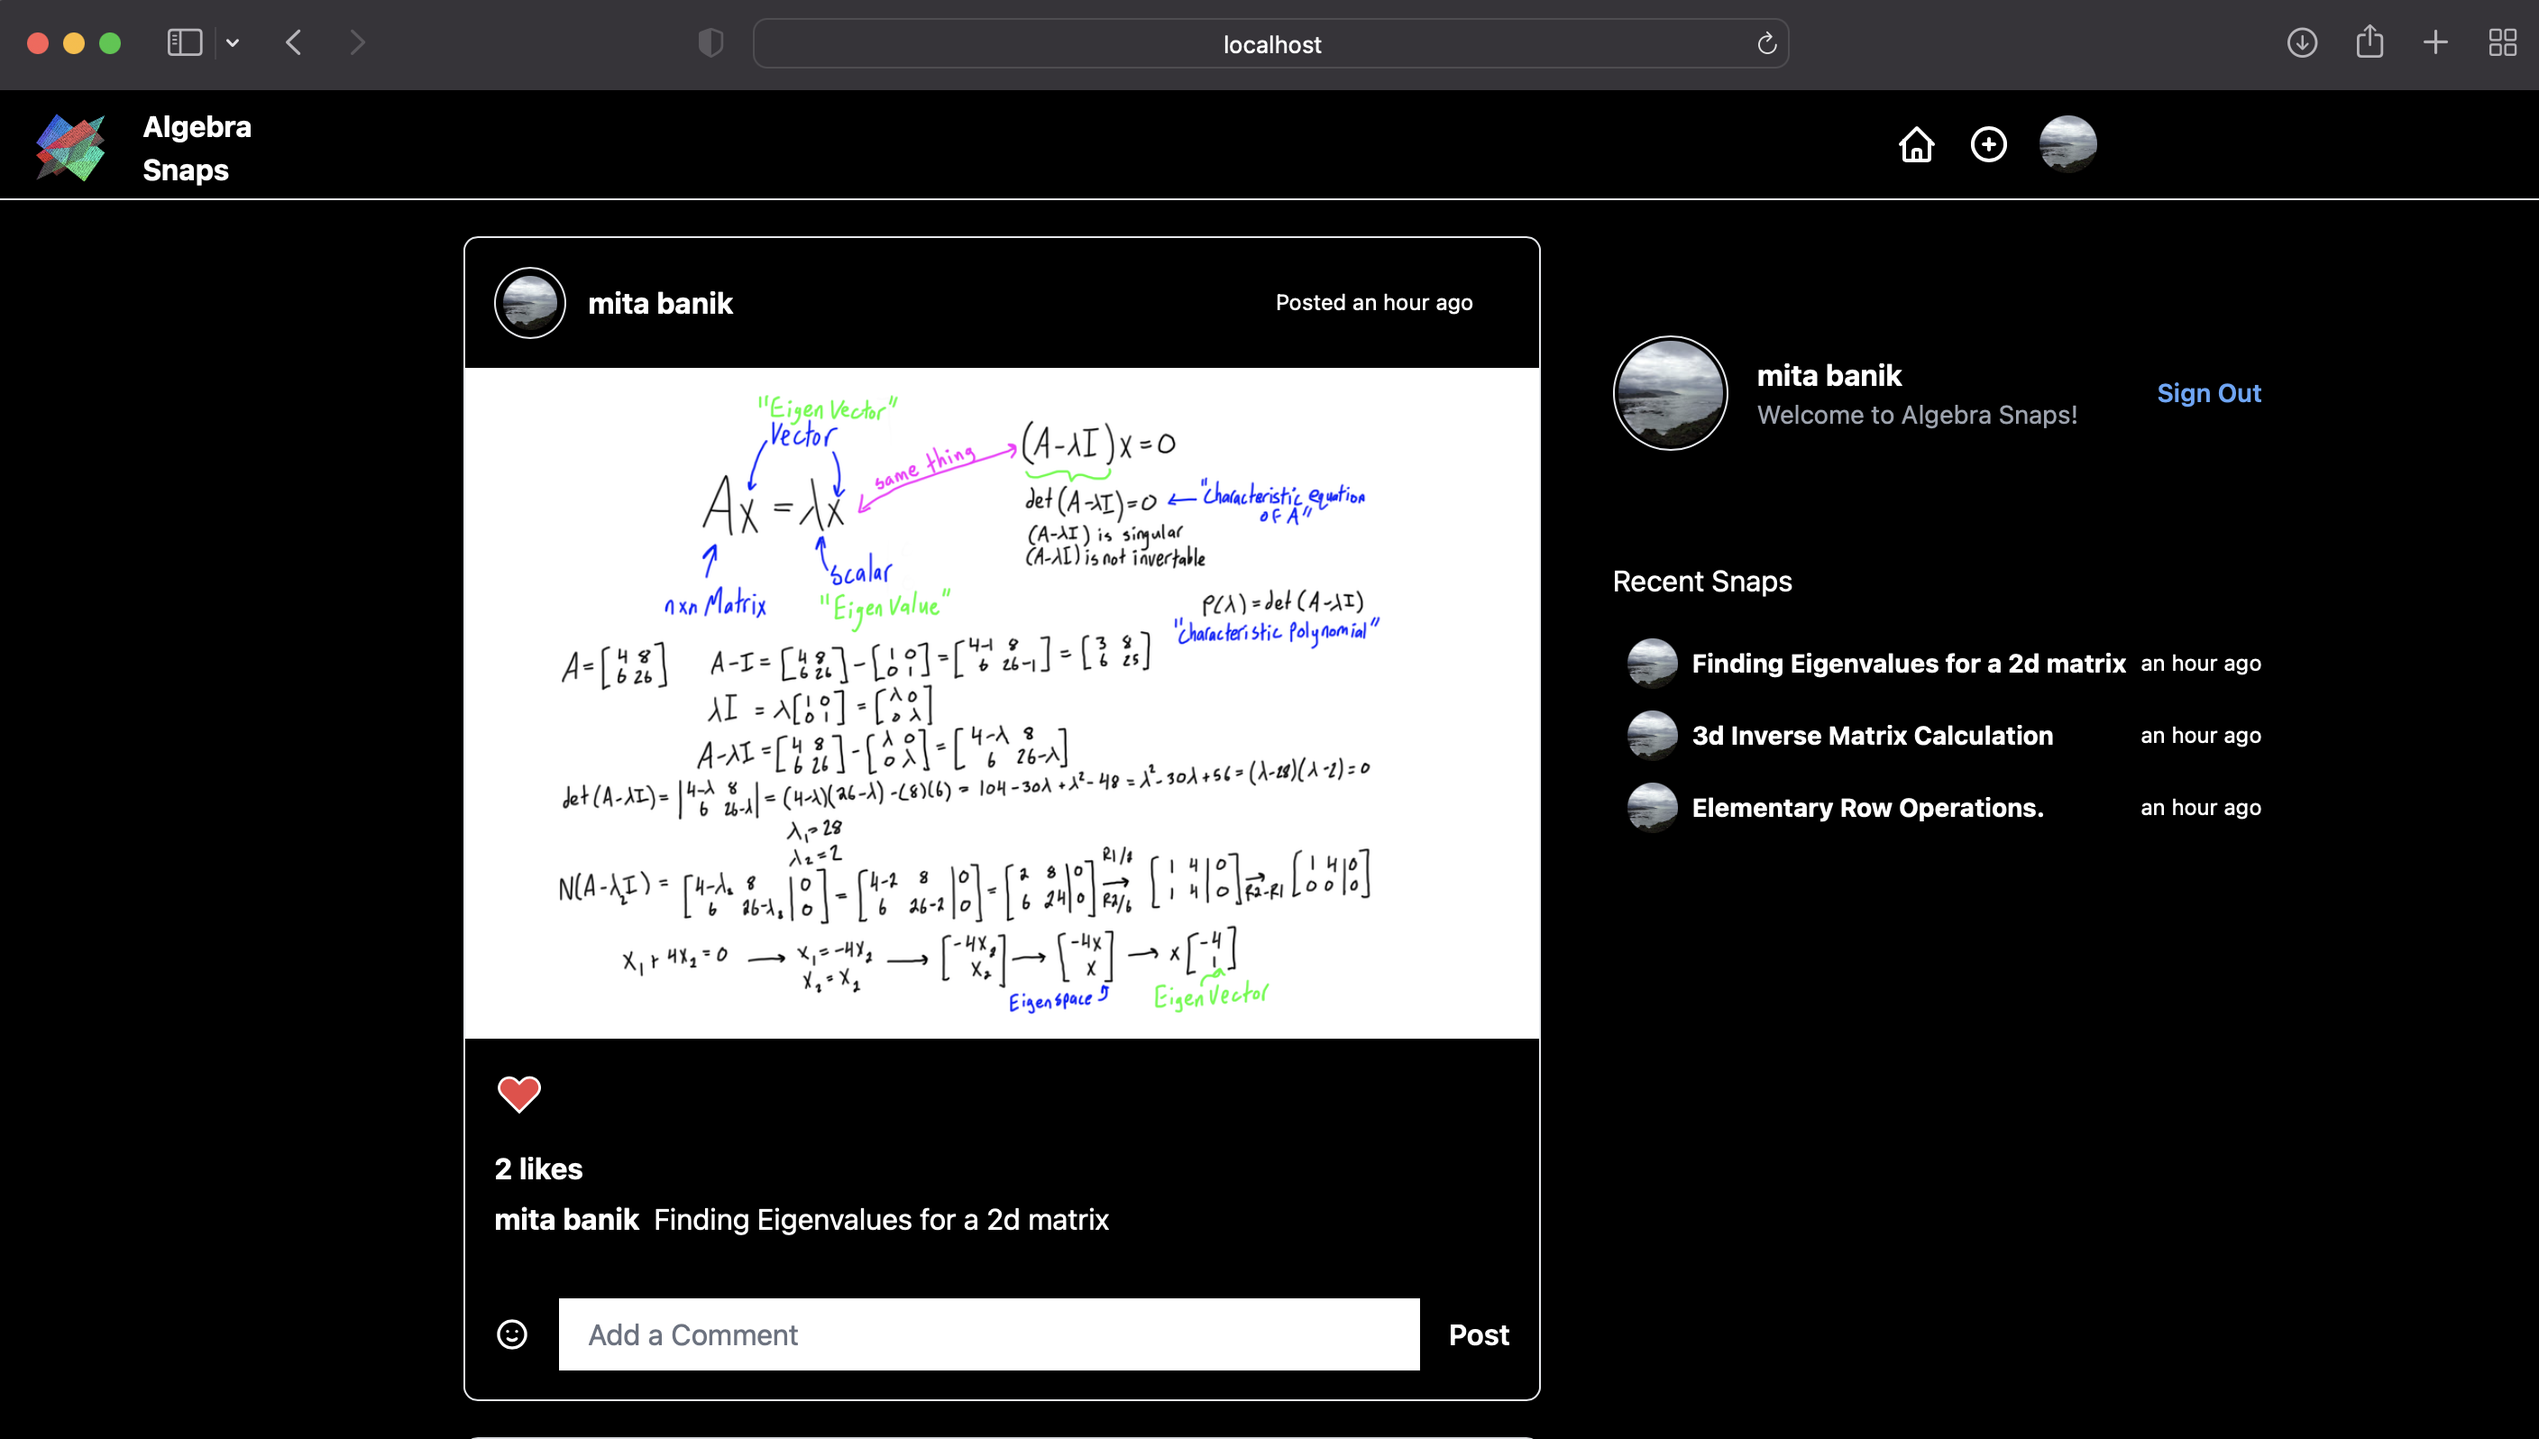
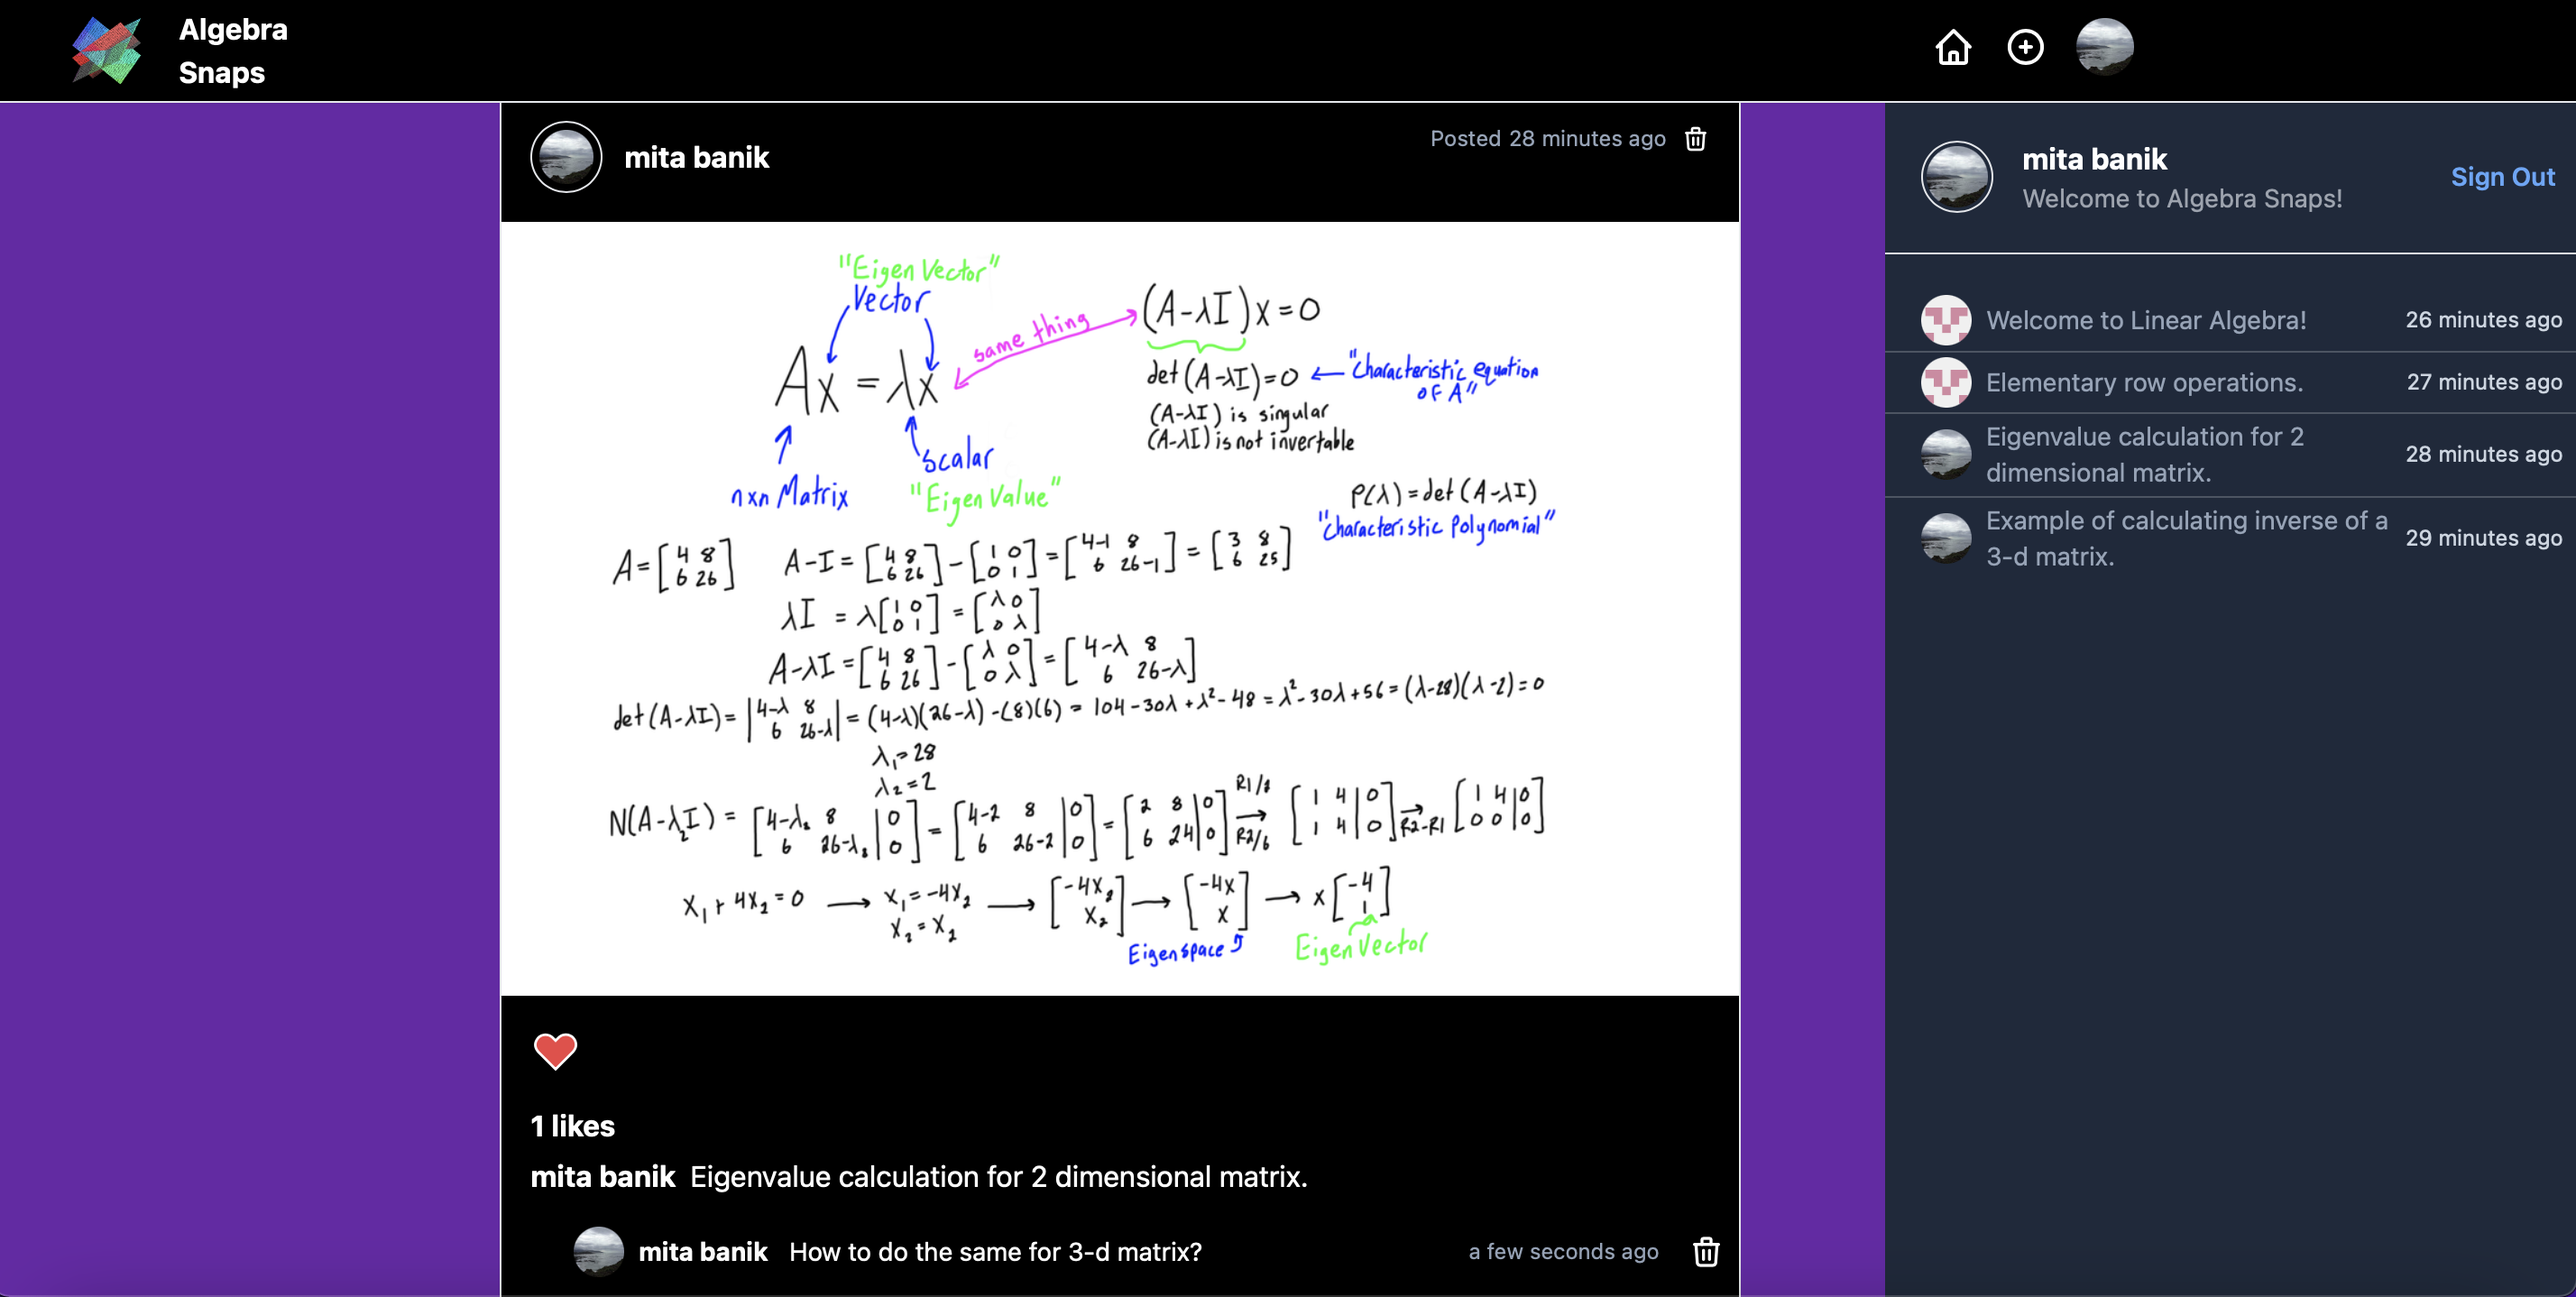
minor design changes

diff --git a/components/feed.tsx b/components/feed.tsx
@@ -22,15 +22,15 @@ function Feed() {
   return (
     <body className="bg-purple-800">
     <main className= {`grid grid-cols-1 md:grid-cols-2 md:max-w-3xl 
-    xl:grid-cols-3 xl:max-w-6xl ml-auto ${!session 
+    xl:grid-cols-6 xl:max-w-6xl ml-auto ${!session 
       && "!grid-col-3"}`}>
-        <div className="col-span-2">
+        <div className="col-start-0 col-span-4 mr-20">
           <Posts />
         </div>
         
         {/* Mini Profile Sidebar*/}
 
-        <section className="hidden xl:inline-grid bg-slate-800 ml-10 " >
+        <div className="hidden xl:inline-grid bg-slate-800 col-start-5 col-span-2 ">
           <div className="fixed top-20 grid grid-col-1 divide-y">
           {session && (
             <MiniProfile />)}
@@ -62,7 +62,7 @@ function Feed() {
             </section>
           </div>
         </div>
-      </section>
+      </div>
     </main>
   </body>
   )

diff --git a/components/postComponent/Post.tsx b/components/postComponent/Post.tsx
@@ -75,7 +75,7 @@ function Post({id, uid, username, userImg, img, caption, timeStamp}) {
     <img src={userImg} className='rounded-full h-10 w-10
     object-contain border p-1' alt ="" />
     <p className="flex-1 font-bold text-white pl-3">{username}</p>
-    <p className="flex text-xs text-white"> Posted 
+    <p className="flex text-xs text-slate-400"> Posted 
     <Moment className='pb-5 pl-1 pr-2' fromNow >
     {timeStamp?.toDate()}
     </Moment> 
@@ -135,7 +135,7 @@ function Post({id, uid, username, userImg, img, caption, timeStamp}) {
         </span>{" "}
         {comment.data().comment}
       </p>
-      <Moment fromNow className="text-xs text-white">
+      <Moment fromNow className="text-xs text-slate-400 pr-2">
       {comment.data().timeStamp?.toDate()}
       </Moment>
 
